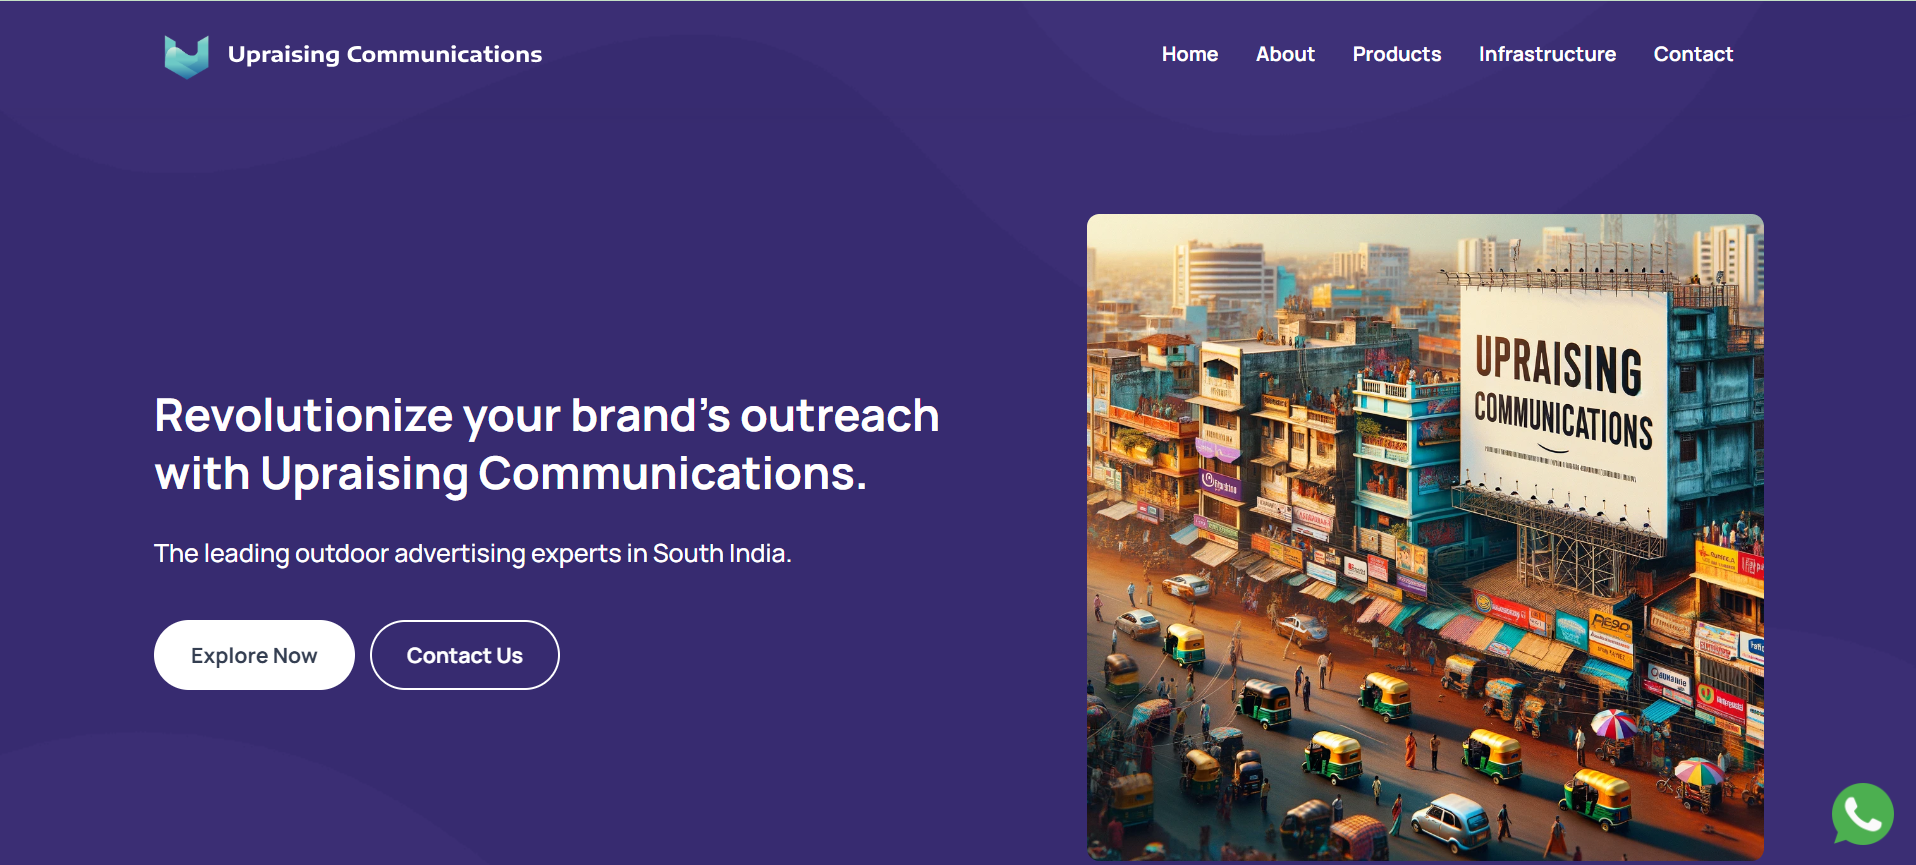
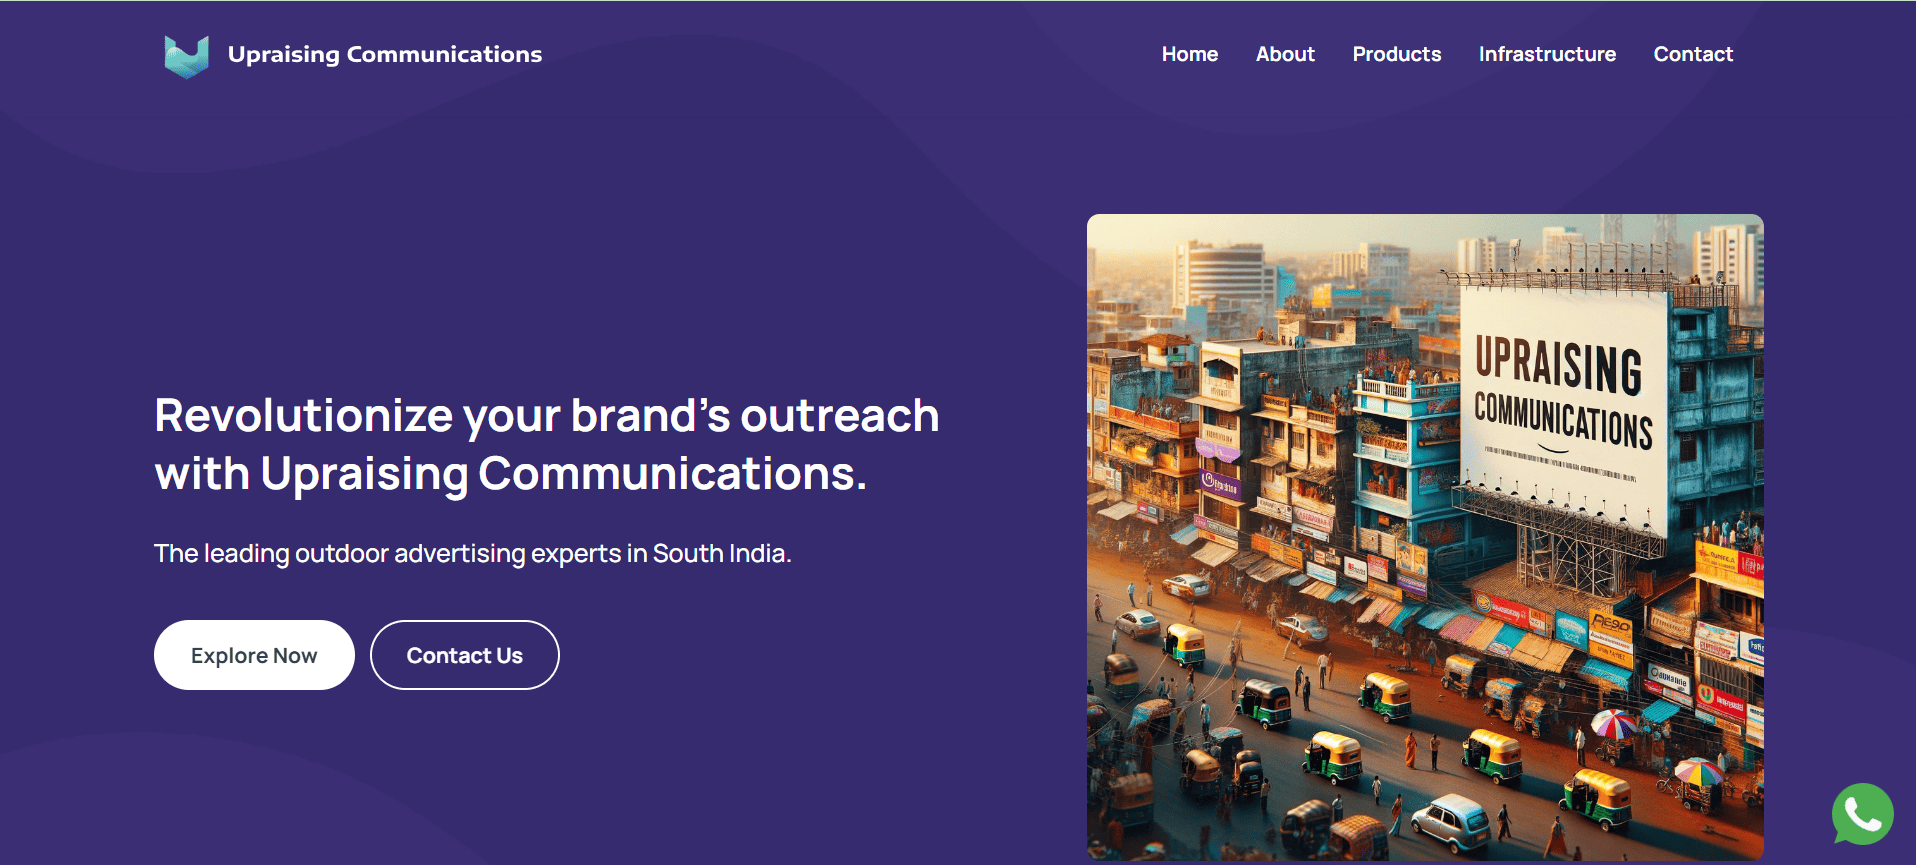
whatsappicon and performance optimised

diff --git a/src/constants/index.ts b/src/constants/index.ts
@@ -2,7 +2,6 @@ import type {
   TNavLink,
   TService,
   TTechnology,
-  TExperience,
   TTestimonial,
   TProject,
 } from "../types";
@@ -24,12 +23,7 @@ import {
   git,
   figma,
   docker,
-  meta,
-  starbucks,
-  tesla,
-  shopify,
   msstones,
-  // tripguide,
   threejs,
   upraising,
 } from "../assets";
@@ -124,60 +118,60 @@ const technologies: TTechnology[] = [
   },
 ];
 
-const experiences: TExperience[] = [
-  {
-    title: "React.js Developer",
-    companyName: "Starbucks",
-    icon: starbucks,
-    iconBg: "#383E56",
-    date: "March 2020 - April 2021",
-    points: [
-      "Developing and maintaining web applications using React.js and other related technologies.",
-      "Collaborating with cross-functional teams including designers, product managers, and other developers to create high-quality products.",
-      "Implementing responsive design and ensuring cross-browser compatibility.",
-      "Participating in code reviews and providing constructive feedback to other developers.",
-    ],
-  },
-  {
-    title: "React Native Developer",
-    companyName: "Tesla",
-    icon: tesla,
-    iconBg: "#E6DEDD",
-    date: "Jan 2021 - Feb 2022",
-    points: [
-      "Developing and maintaining web applications using React.js and other related technologies.",
-      "Collaborating with cross-functional teams including designers, product managers, and other developers to create high-quality products.",
-      "Implementing responsive design and ensuring cross-browser compatibility.",
-      "Participating in code reviews and providing constructive feedback to other developers.",
-    ],
-  },
-  {
-    title: "Web Developer",
-    companyName: "Shopify",
-    icon: shopify,
-    iconBg: "#383E56",
-    date: "Jan 2022 - Jan 2023",
-    points: [
-      "Developing and maintaining web applications using React.js and other related technologies.",
-      "Collaborating with cross-functional teams including designers, product managers, and other developers to create high-quality products.",
-      "Implementing responsive design and ensuring cross-browser compatibility.",
-      "Participating in code reviews and providing constructive feedback to other developers.",
-    ],
-  },
-  {
-    title: "Full stack Developer",
-    companyName: "Meta",
-    icon: meta,
-    iconBg: "#E6DEDD",
-    date: "Jan 2023 - Present",
-    points: [
-      "Developing and maintaining web applications using React.js and other related technologies.",
-      "Collaborating with cross-functional teams including designers, product managers, and other developers to create high-quality products.",
-      "Implementing responsive design and ensuring cross-browser compatibility.",
-      "Participating in code reviews and providing constructive feedback to other developers.",
-    ],
-  },
-];
+// const experiences: TExperience[] = [
+//   {
+//     title: "React.js Developer",
+//     companyName: "Starbucks",
+//     icon: starbucks,
+//     iconBg: "#383E56",
+//     date: "March 2020 - April 2021",
+//     points: [
+//       "Developing and maintaining web applications using React.js and other related technologies.",
+//       "Collaborating with cross-functional teams including designers, product managers, and other developers to create high-quality products.",
+//       "Implementing responsive design and ensuring cross-browser compatibility.",
+//       "Participating in code reviews and providing constructive feedback to other developers.",
+//     ],
+//   },
+//   {
+//     title: "React Native Developer",
+//     companyName: "Tesla",
+//     icon: tesla,
+//     iconBg: "#E6DEDD",
+//     date: "Jan 2021 - Feb 2022",
+//     points: [
+//       "Developing and maintaining web applications using React.js and other related technologies.",
+//       "Collaborating with cross-functional teams including designers, product managers, and other developers to create high-quality products.",
+//       "Implementing responsive design and ensuring cross-browser compatibility.",
+//       "Participating in code reviews and providing constructive feedback to other developers.",
+//     ],
+//   },
+//   {
+//     title: "Web Developer",
+//     companyName: "Shopify",
+//     icon: shopify,
+//     iconBg: "#383E56",
+//     date: "Jan 2022 - Jan 2023",
+//     points: [
+//       "Developing and maintaining web applications using React.js and other related technologies.",
+//       "Collaborating with cross-functional teams including designers, product managers, and other developers to create high-quality products.",
+//       "Implementing responsive design and ensuring cross-browser compatibility.",
+//       "Participating in code reviews and providing constructive feedback to other developers.",
+//     ],
+//   },
+//   {
+//     title: "Full stack Developer",
+//     companyName: "Meta",
+//     icon: meta,
+//     iconBg: "#E6DEDD",
+//     date: "Jan 2023 - Present",
+//     points: [
+//       "Developing and maintaining web applications using React.js and other related technologies.",
+//       "Collaborating with cross-functional teams including designers, product managers, and other developers to create high-quality products.",
+//       "Implementing responsive design and ensuring cross-browser compatibility.",
+//       "Participating in code reviews and providing constructive feedback to other developers.",
+//     ],
+//   },
+// ];
 
 const testimonials: TTestimonial[] = [
   {
@@ -272,4 +266,4 @@ const projects: TProject[] = [
   // },
 ];
 
-export { services, technologies, experiences, testimonials, projects };
+export { services, technologies, testimonials, projects };

diff --git a/src/components/icons/WhatsAppIcon.tsx b/src/components/icons/WhatsAppIcon.tsx
@@ -1,0 +1,27 @@
+
+
+const WhatsAppIcon = () => {
+    const handleIconClick = () => {
+        window.open('https://wa.me/8838962516', '_blank');
+      };
+      
+   return (
+      <span
+        className="[&>svg]:h-5 [&>svg]:w-5"
+        style={{ position: 'fixed', right: '10px', top: '350px', cursor: 'pointer',  zIndex: 1000  }}
+        onClick={handleIconClick}
+      >
+        <svg
+          xmlns="http://www.w3.org/2000/svg"
+          fill="currentColor"
+          viewBox="0 0 448 512"
+          style={{ color: 'white' }}
+        >
+        <path
+           d="M380.9 97.1C339 55.1 283.2 32 223.9 32c-122.4 0-222 99.6-222 222 0 39.1 10.2 77.3 29.6 111L0 480l117.7-30.9c32.4 17.7 68.9 27 106.1 27h.1c122.3 0 224.1-99.6 224.1-222 0-59.3-25.2-115-67.1-157zm-157 341.6c-33.2 0-65.7-8.9-94-25.7l-6.7-4-69.8 18.3L72 359.2l-4.4-7c-18.5-29.4-28.2-63.3-28.2-98.2 0-101.7 82.8-184.5 184.6-184.5 49.3 0 95.6 19.2 130.4 54.1 34.8 34.9 56.2 81.2 56.1 130.5 0 101.8-84.9 184.6-186.6 184.6zm101.2-138.2c-5.5-2.8-32.8-16.2-37.9-18-5.1-1.9-8.8-2.8-12.5 2.8-3.7 5.6-14.3 18-17.6 21.8-3.2 3.7-6.5 4.2-12 1.4-32.6-16.3-54-29.1-75.5-66-5.7-9.8 5.7-9.1 16.3-30.3 1.8-3.7 .9-6.9-.5-9.7-1.4-2.8-12.5-30.1-17.1-41.2-4.5-10.8-9.1-9.3-12.5-9.5-3.2-.2-6.9-.2-10.6-.2-3.7 0-9.7 1.4-14.8 6.9-5.1 5.6-19.4 19-19.4 46.3 0 27.3 19.9 53.7 22.6 57.4 2.8 3.7 39.1 59.7 94.8 83.8 35.2 15.2 49 16.5 66.6 13.9 10.7-1.6 32.8-13.4 37.4-26.4 4.6-13 4.6-24.1 3.2-26.4-1.3-2.5-5-3.9-10.5-6.6z" />
+        </svg>
+      </span>
+    );
+  };
+  
+  export default WhatsAppIcon;

diff --git a/src/assets/index.ts b/src/assets/index.ts
@@ -3,7 +3,6 @@ import backend from "./backend.png";
 import creator from "./creator.png";
 import mobile from "./mobile.png";
 import web from "./web.png";
-import github from "./github.png";
 import menu from "./menu.svg";
 import close from "./close.svg";
 
@@ -20,15 +19,9 @@ import redux from "./tech/redux.png";
 import tailwind from "./tech/tailwind.png";
 import typescript from "./tech/typescript.png";
 import threejs from "./tech/threejs.svg";
-
-import meta from "./company/meta.png";
-import shopify from "./company/shopify.png";
-import starbucks from "./company/starbucks.png";
-import tesla from "./company/tesla.png";
-
 import upraising from "./upraising.png";
 import msstones from "./msstones.png";
-import tripguide from "./tripguide.png";
+
 
 export {
   logo,
@@ -36,7 +29,6 @@ export {
   creator,
   mobile,
   web,
-  github,
   menu,
   close,
   css,
@@ -52,11 +44,6 @@ export {
   tailwind,
   typescript,
   threejs,
-  meta,
-  shopify,
-  starbucks,
-  tesla,
   upraising,
   msstones,
-  tripguide,
 };

diff --git a/src/App.tsx b/src/App.tsx
@@ -10,7 +10,8 @@ import {
   Tech,
   Works,
   StarsCanvas,
-  LinkedInIcon
+  LinkedInIcon,
+  WhatsAppIcon
 } from "./components";
 // import ReactGA from "react-ga";
 import { useEffect } from "react";
@@ -28,11 +29,11 @@ const App = () => {
     <BrowserRouter>
       <div className="bg-primary relative z-0">
       <LinkedInIcon />
+      <WhatsAppIcon/>
         <div className="bg-hero-pattern bg-cover bg-center bg-no-repeat">
           <Navbar />
           <div className="mt-0 sm:mt-0 md:mt-0 lg:mt-0 xl:mt-0 2xl:mt-4">
-
-            <Hero />
+          <Hero />
           </div>
         </div>
         <div style={{ backgroundColor: "black" }}>

diff --git a/src/components/index.ts b/src/components/index.ts
@@ -15,6 +15,7 @@ import Feedbacks from "./sections/Feedbacks";
 import Contact from "./sections/Contact";
 import CanvasLoader from "./layout/Loader";
 import LinkedInIcon from "./icons/LinkedInIcon";
+import WhatsAppIcon from "./icons/WhatsAppIcon";
 
 export {
   Hero,
@@ -30,5 +31,6 @@ export {
   BallCanvas,
   ComputersCanvas,
   StarsCanvas,
-  LinkedInIcon
+  LinkedInIcon,
+  WhatsAppIcon
 };

diff --git a/src/components/icons/LinkedInIcon.tsx b/src/components/icons/LinkedInIcon.tsx
@@ -8,7 +8,7 @@ const LinkedInIcon = () => {
   return (
     <span
       className="[&>svg]:h-5 [&>svg]:w-5"
-      style={{ position: 'fixed', right: '10px', top: '300px', cursor: 'pointer' }}
+      style={{ position: 'fixed', right: '10px', top: '300px', cursor: 'pointer',  zIndex: 1000  }}
       onClick={handleIconClick}
     >
       <svg
